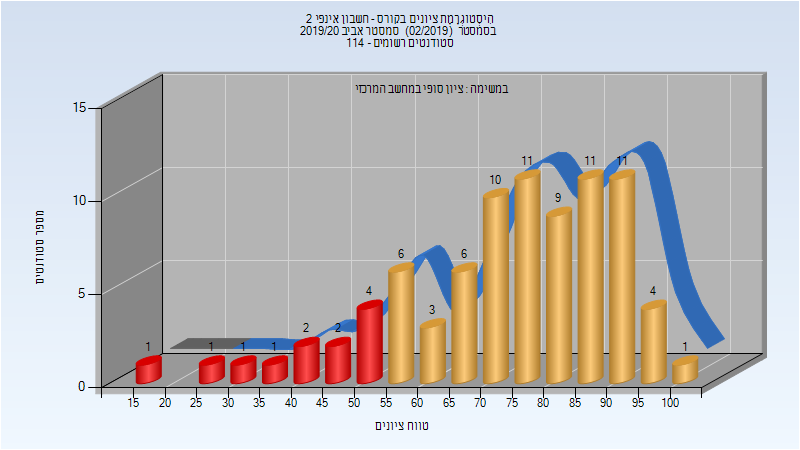
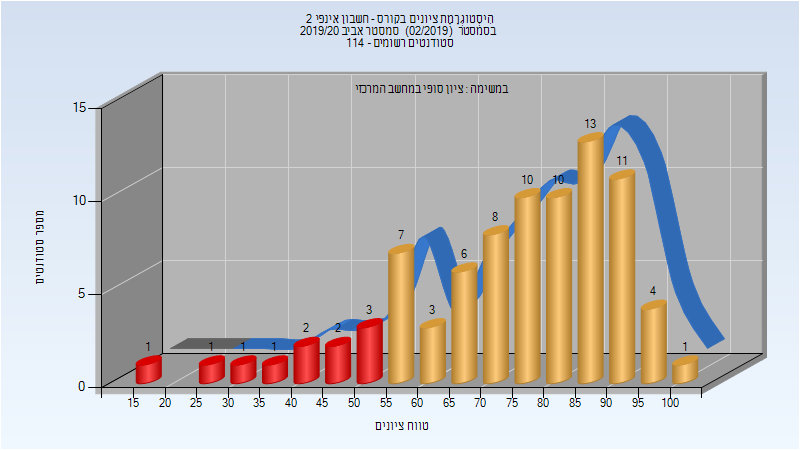
Deploy michael-maltsev/technion-histograms to github.com/michael-maltsev/technion-histograms.git:gh-pages

Changed region(s): [[0.5938, 0.2489, 0.8438, 0.5289], [0.4688, 0.4978, 0.5938, 0.6533], [0.4375, 0.6533, 0.5, 0.7467]]

diff --git a/104281/index.html b/104281/index.html
@@ -1254,11 +1254,11 @@
 <tbody>
 <tr>
 <td>84</td>
-<td>72/12</td>
-<td>86</td>
+<td>73/11</td>
+<td>87</td>
 <td>16</td>
 <td>100</td>
-<td>73.821</td>
+<td>74.155</td>
 <td>77.5</td>
 </tr>
 </tbody>

diff --git a/104281/README.md b/104281/README.md
@@ -393,5 +393,5 @@
 
 | סטודנטים | עברו/נכשלו | אחוז עוברים | ציון מינימלי | ציון מקסימלי | ממוצע | חציון |
 | ---- | ---- | ---- | ---- | ---- | ---- | ---- |
-| 84 | 72/12 | 86 | 16 | 100 | 73.821 | 77.5 |
+| 84 | 73/11 | 87 | 16 | 100 | 74.155 | 77.5 |
 
